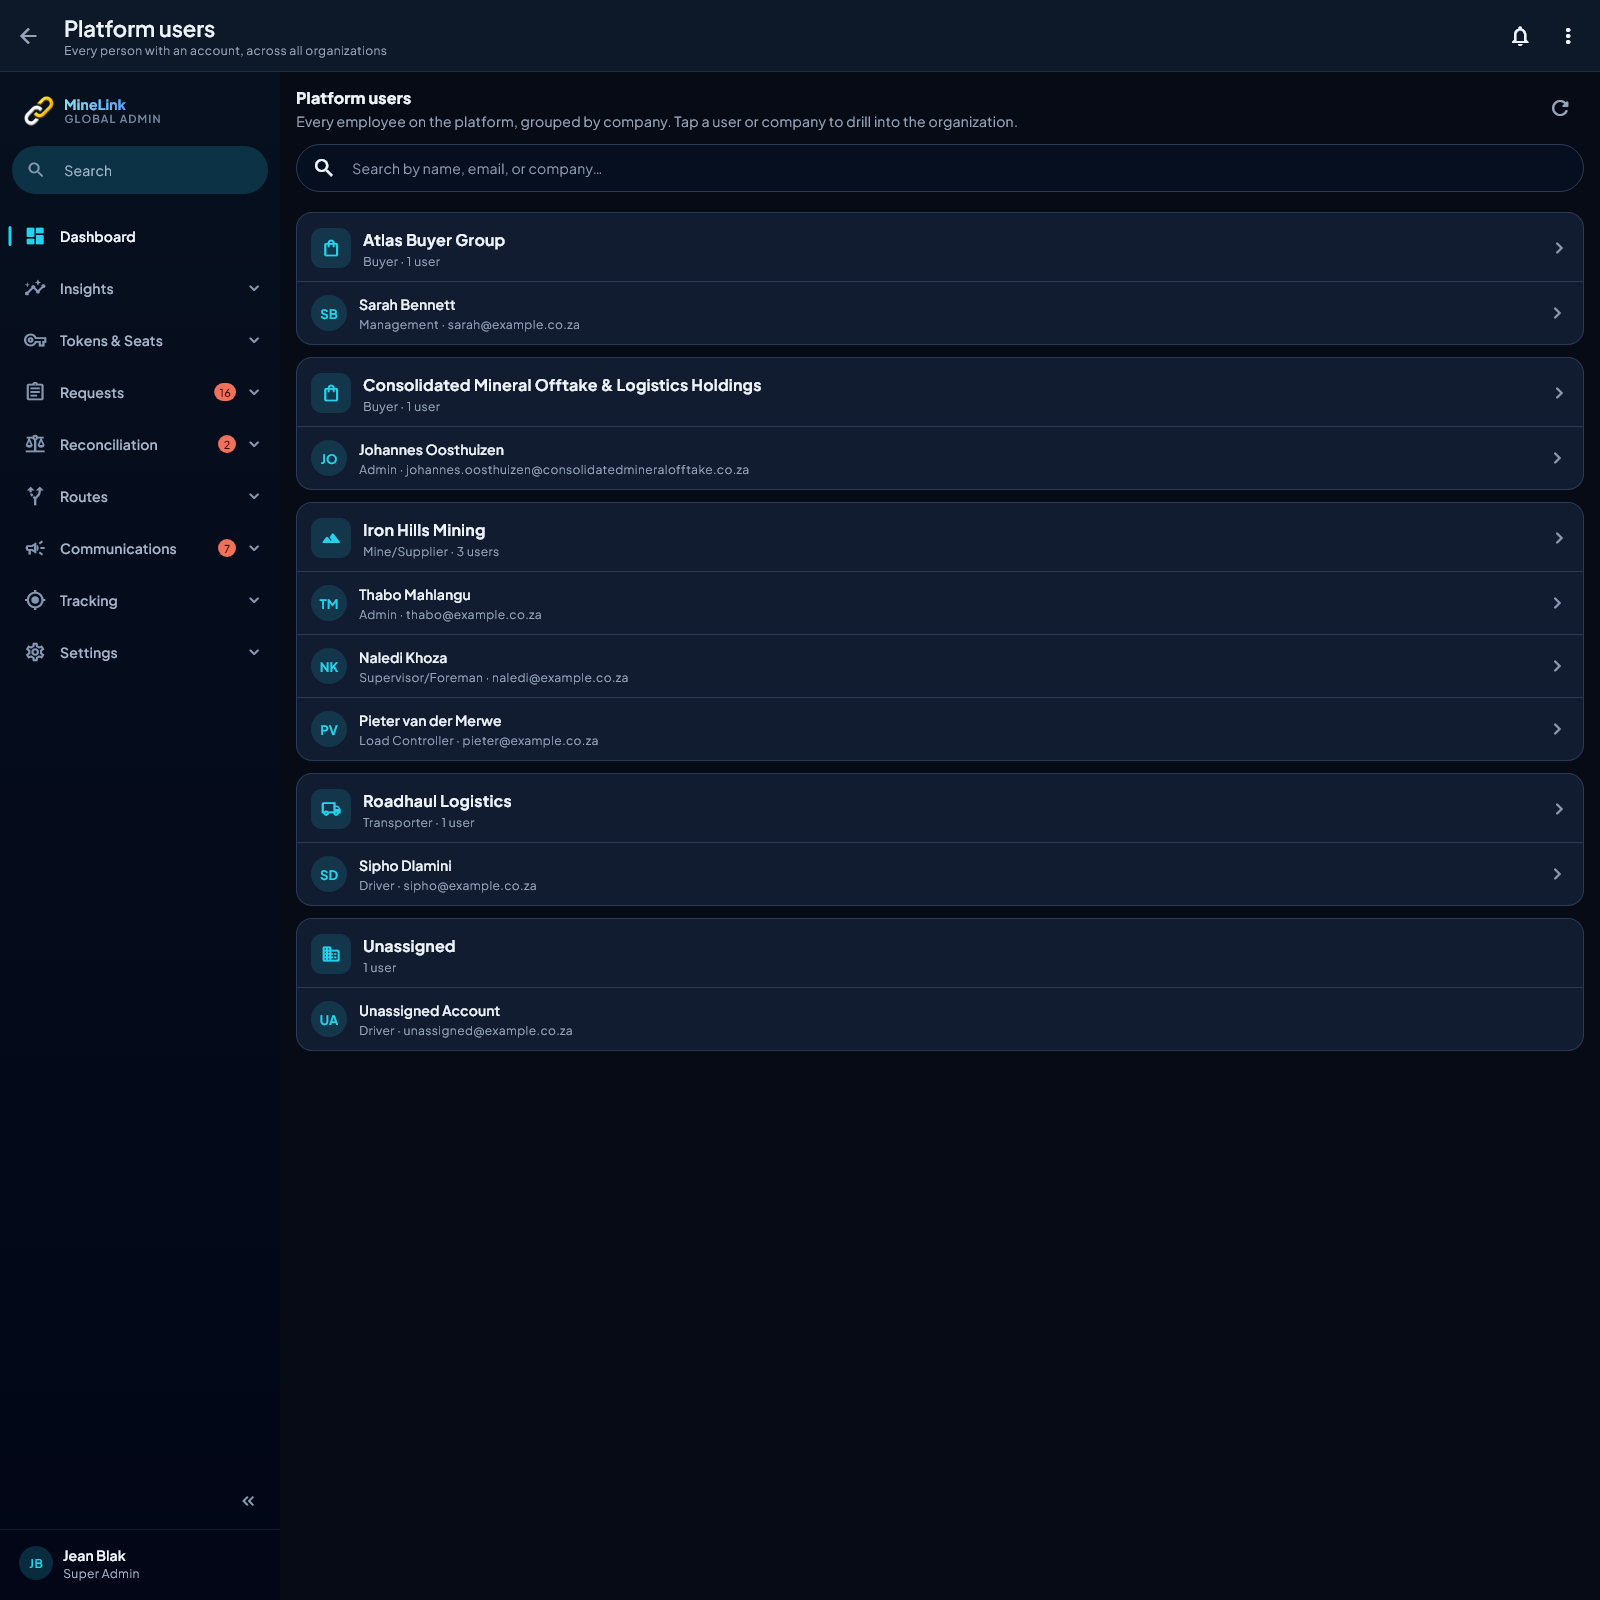
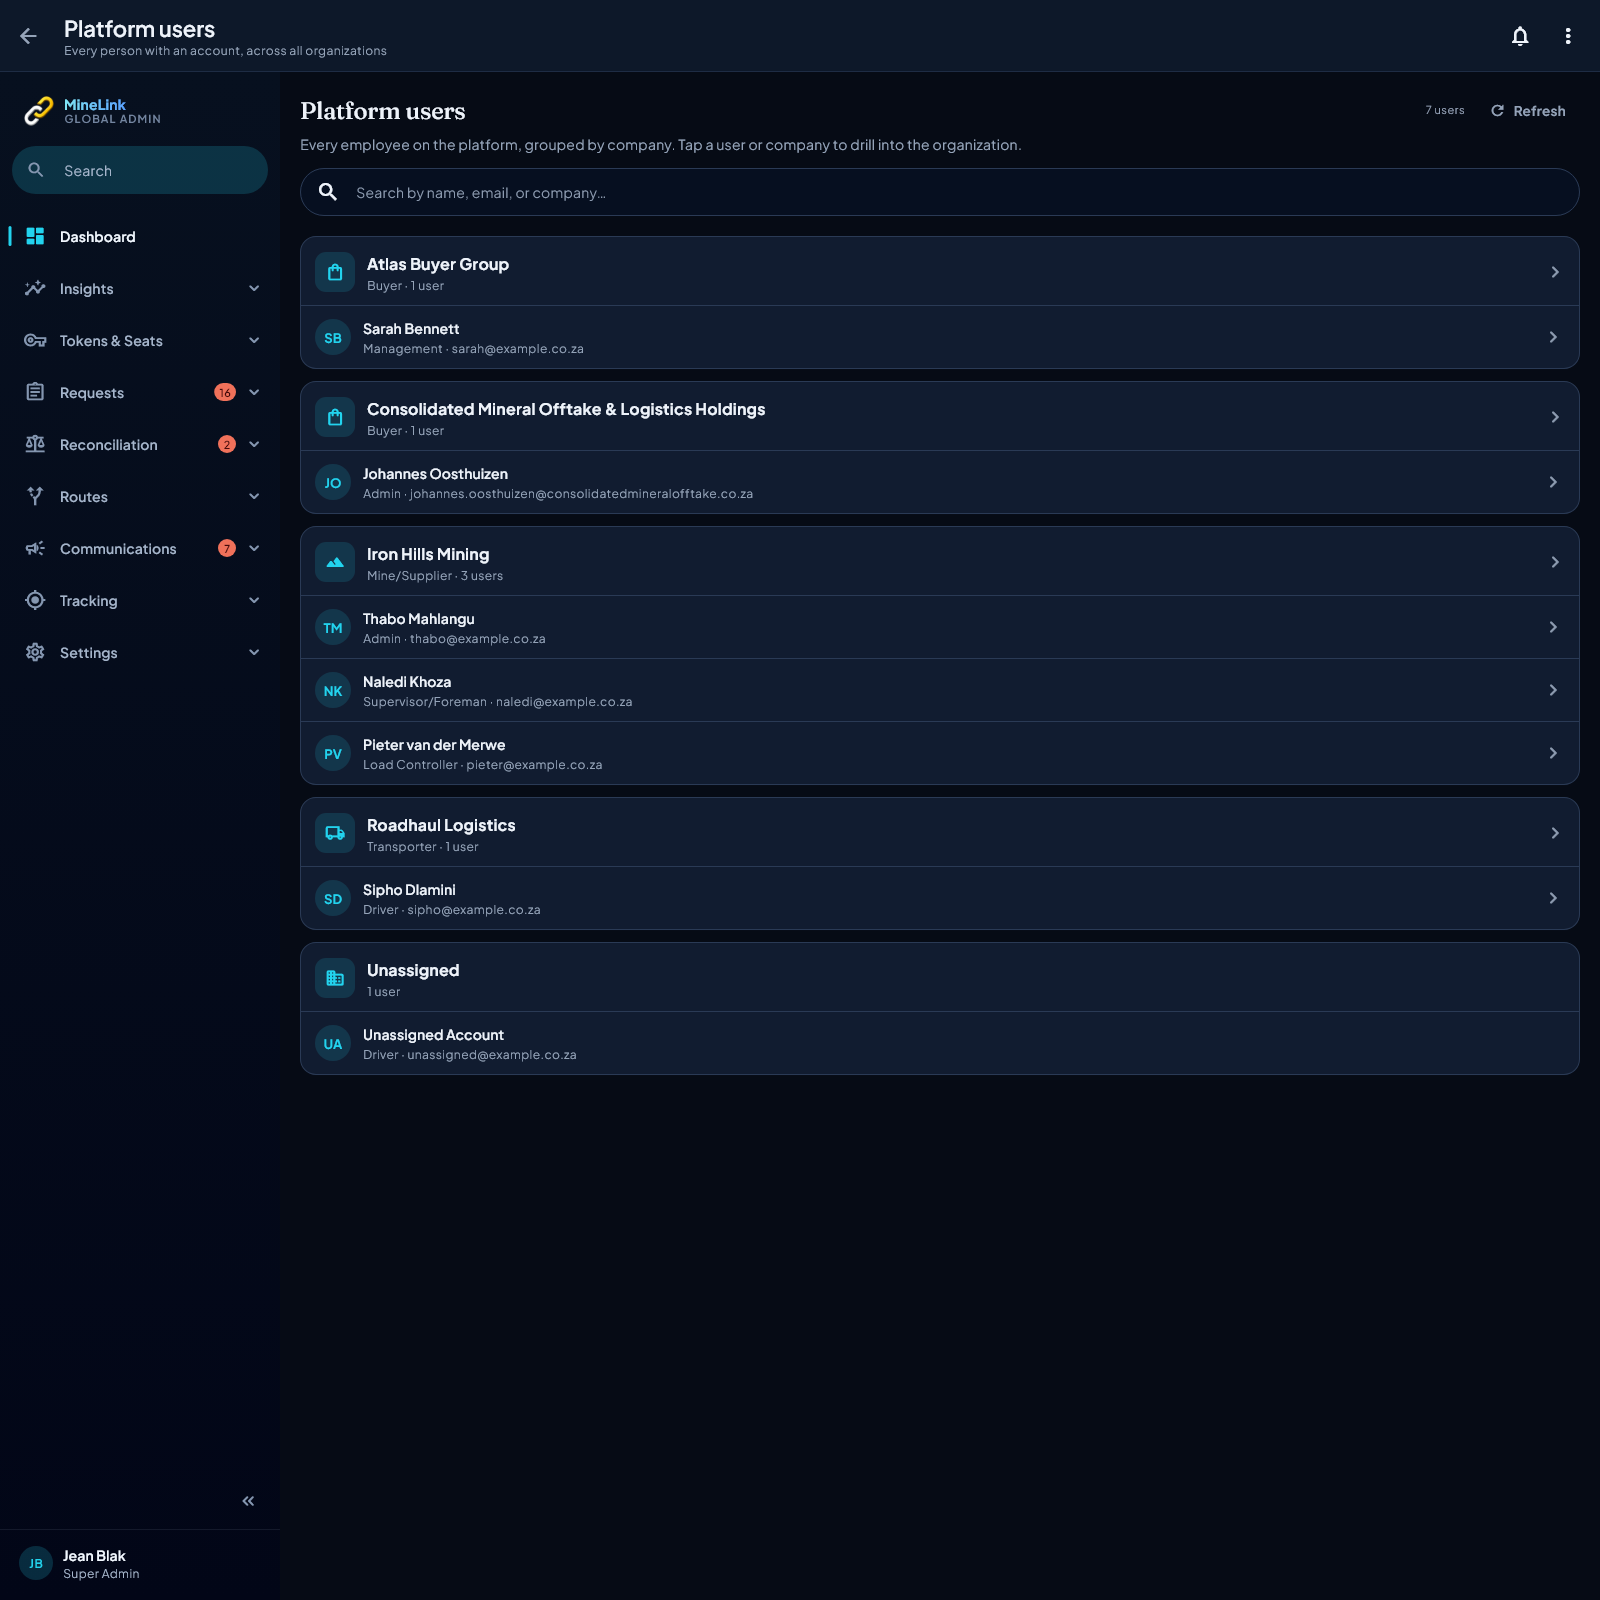
fix(console): platform users opens in the shared page header, not a hand-rolled sans title
The one console drilldown whose title was 16px PlusJakartaSans ExtraBold
set by hand, while every other console screen opens in the Fraunces display
face through MlPageHeader (docs/design-reference.md §3–§4). Found 2026-08-23
in the Phase 3 per-screen pass. Now MlPageHeader with the description, the
user count as the right meta, and Refresh in the actions slot (the ghost
button the fleet screen uses); content padding 20 like its siblings.

Pinned in console_tail_test.dart: MlPageHeader present, the title's
fontFamily is MlTokens.fontSerif, the meta matches /^\d+ users?$/. Sabotaged
by running the test over the previous screen: it fails. Both renders
regenerated and looked at.

Changed region(s): [[0.1875, 0.0625, 1.0, 0.6875], [0.9375, 0.0625, 0.9688, 0.0938]]

diff --git a/lib/features/super_admin/screens/platform_users_screen.dart b/lib/features/super_admin/screens/platform_users_screen.dart
@@ -30,49 +30,43 @@ class _PlatformUsersScreenState extends ConsumerState<PlatformUsersScreen> {
   @override
   Widget build(BuildContext context) {
     final usersAsync = ref.watch(allPlatformUsersProvider);
-    final cs = Theme.of(context).colorScheme;
 
     return Column(
       crossAxisAlignment: CrossAxisAlignment.stretch,
       children: [
+        // The shared page header, not a hand-rolled title. This screen set
+        // 'Platform users' in 16px PlusJakartaSans ExtraBold while every
+        // other console screen opens in the Fraunces display face through
+        // MlPageHeader — the one drilldown on the console speaking the
+        // portal's old type language (the ml_page_header.dart note: "thirty-
+        // six screens in PlusJakartaSans ExtraBold"). Seen 2026-08-23 in the
+        // Phase 3 pass. The count on the right and the refresh in the actions
+        // slot are where the reference puts them (docs/design-reference.md
+        // §4's section header).
         Padding(
-          padding: const EdgeInsets.fromLTRB(16, 12, 16, 0),
-          child: Row(
-            children: [
-              Expanded(
-                child: Column(
-                  crossAxisAlignment: CrossAxisAlignment.start,
-                  children: [
-                    Text(
-                      'Platform users',
-                      style: context.mlText.titleMedium.copyWith(
-                        color: MlSemantic.of(context).textStrong,
-                        fontWeight: FontWeight.w800,
-                      ),
-                    ),
-                    const SizedBox(height: 2),
-                    Text(
-                      'Every employee on the platform, grouped by company. '
-                      'Tap a user or company to drill into the organization.',
-                      style: context.mlText.bodyMedium.copyWith(
-                        color: cs.onSurfaceVariant,
-                      ),
-                    ),
-                  ],
-                ),
-              ),
-              IconButton(
-                tooltip: 'Refresh',
-                icon: const Icon(Icons.refresh_rounded),
-                onPressed: () =>
-                    ref.invalidate(allPlatformUsersProvider),
+          padding: const EdgeInsets.fromLTRB(20, 18, 20, 0),
+          child: MlPageHeader(
+            title: 'Platform users',
+            description:
+                'Every employee on the platform, grouped by company. '
+                'Tap a user or company to drill into the organization.',
+            meta: usersAsync.valueOrNull == null
+                ? null
+                : mlCount(usersAsync.value!.length, 'user', 'users'),
+            padding: EdgeInsets.zero,
+            actions: [
+              MlButton.ghost(
+                label: 'Refresh',
+                icon: Icons.refresh,
+                compact: true,
+                onPressed: () => ref.invalidate(allPlatformUsersProvider),
               ),
             ],
           ),
         ),
-        const SizedBox(height: 12),
+        const SizedBox(height: 14),
         Padding(
-          padding: const EdgeInsets.fromLTRB(16, 0, 16, 8),
+          padding: const EdgeInsets.fromLTRB(20, 0, 20, 8),
           child: SearchBar(
             hintText: 'Search by name, email, or company…',
             leading: const Icon(Icons.search),
@@ -147,7 +141,7 @@ class _PlatformUsersScreenState extends ConsumerState<PlatformUsersScreen> {
     return RefreshIndicator(
       onRefresh: () async => ref.invalidate(allPlatformUsersProvider),
       child: ListView.builder(
-        padding: const EdgeInsets.fromLTRB(16, 0, 16, 16),
+        padding: const EdgeInsets.fromLTRB(20, 0, 20, 16),
         itemCount: sortedBuckets.length,
         itemBuilder: (context, i) =>
             _CompanyUsersSection(bucket: sortedBuckets[i]),

diff --git a/test/features/super_admin/console_tail_test.dart b/test/features/super_admin/console_tail_test.dart
@@ -24,6 +24,8 @@ import 'package:flutter_test/flutter_test.dart';
 import 'package:shared_preferences/shared_preferences.dart';
 import 'package:supabase_flutter/supabase_flutter.dart';
 
+import 'package:flutter_application_1/core/design/components/ml_components.dart';
+import 'package:flutter_application_1/core/design/tokens/ml_tokens.dart';
 import 'package:flutter_application_1/core/theme/app_theme.dart';
 import 'package:flutter_application_1/core/time/ml_time.dart';
 import 'package:flutter_application_1/features/super_admin/screens/account_deactivations_screen.dart';
@@ -216,6 +218,25 @@ void main() {
     expectNoWireVocabulary(tester, 'the platform users list');
     expect(find.textContaining('Load Controller'), findsWidgets);
     expect(find.textContaining('Supervisor/Foreman'), findsWidgets);
+  });
+
+  testWidgets('and the platform-users title is the shared page header',
+      (tester) async {
+    // This screen set its title in 16px PlusJakartaSans ExtraBold by hand
+    // while every other console screen opens in the Fraunces display face
+    // through MlPageHeader — found 2026-08-23 in the Phase 3 pass against
+    // the reference's section-header pattern. The header also carries the
+    // count on the right, where the reference puts it.
+    await pump(tester, const PlatformUsersScreen(), width: 1600, height: 1600);
+    final header = find.byType(MlPageHeader);
+    expect(header, findsOneWidget,
+        reason: 'the title is hand-rolled again instead of MlPageHeader');
+    final title = tester.widget<Text>(find.descendant(
+        of: header, matching: find.text('Platform users')));
+    expect(title.style?.fontFamily, MlTokens.fontSerif,
+        reason: 'the page title is not in the display face');
+    expect(tester.widget<MlPageHeader>(header).meta, matches(r'^\d+ users?$'),
+        reason: 'the user count is missing from the header meta');
   });
 
   testWidgets('token history names the action in English, and no database key',
